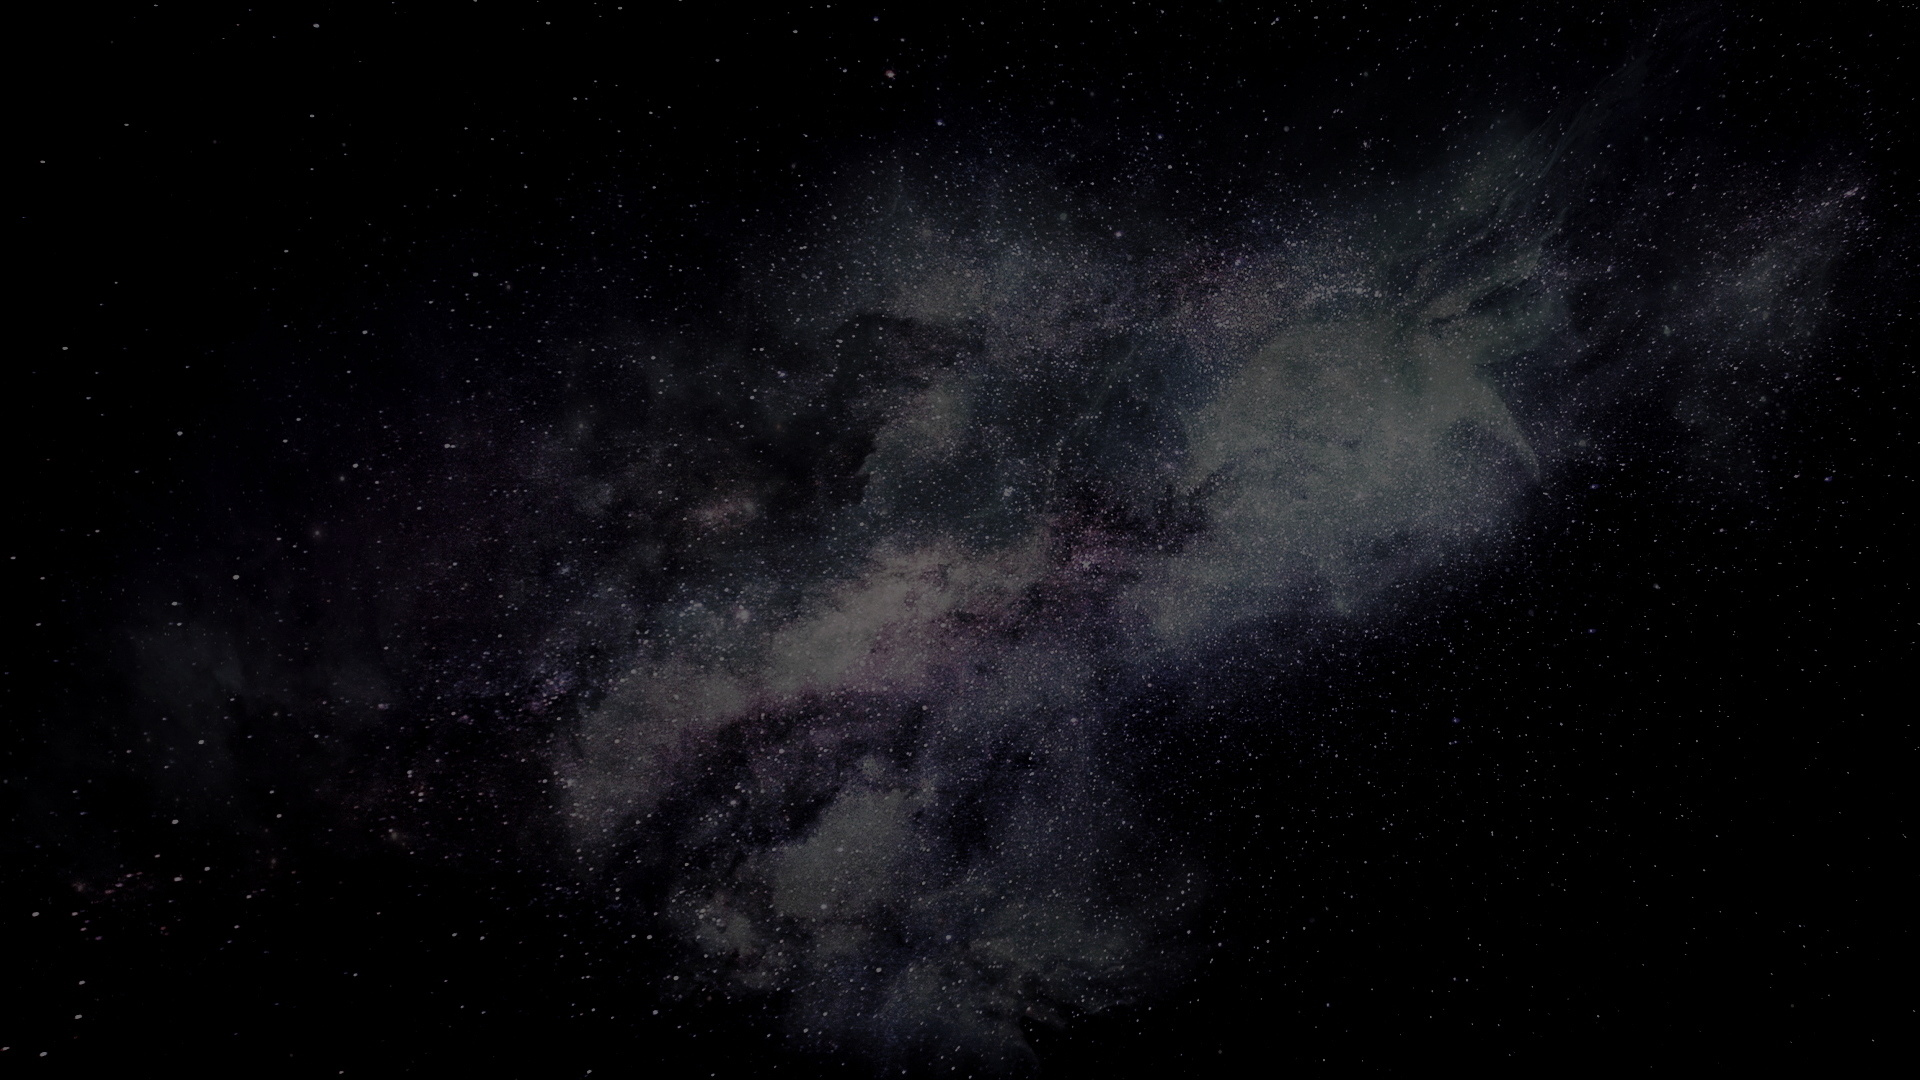
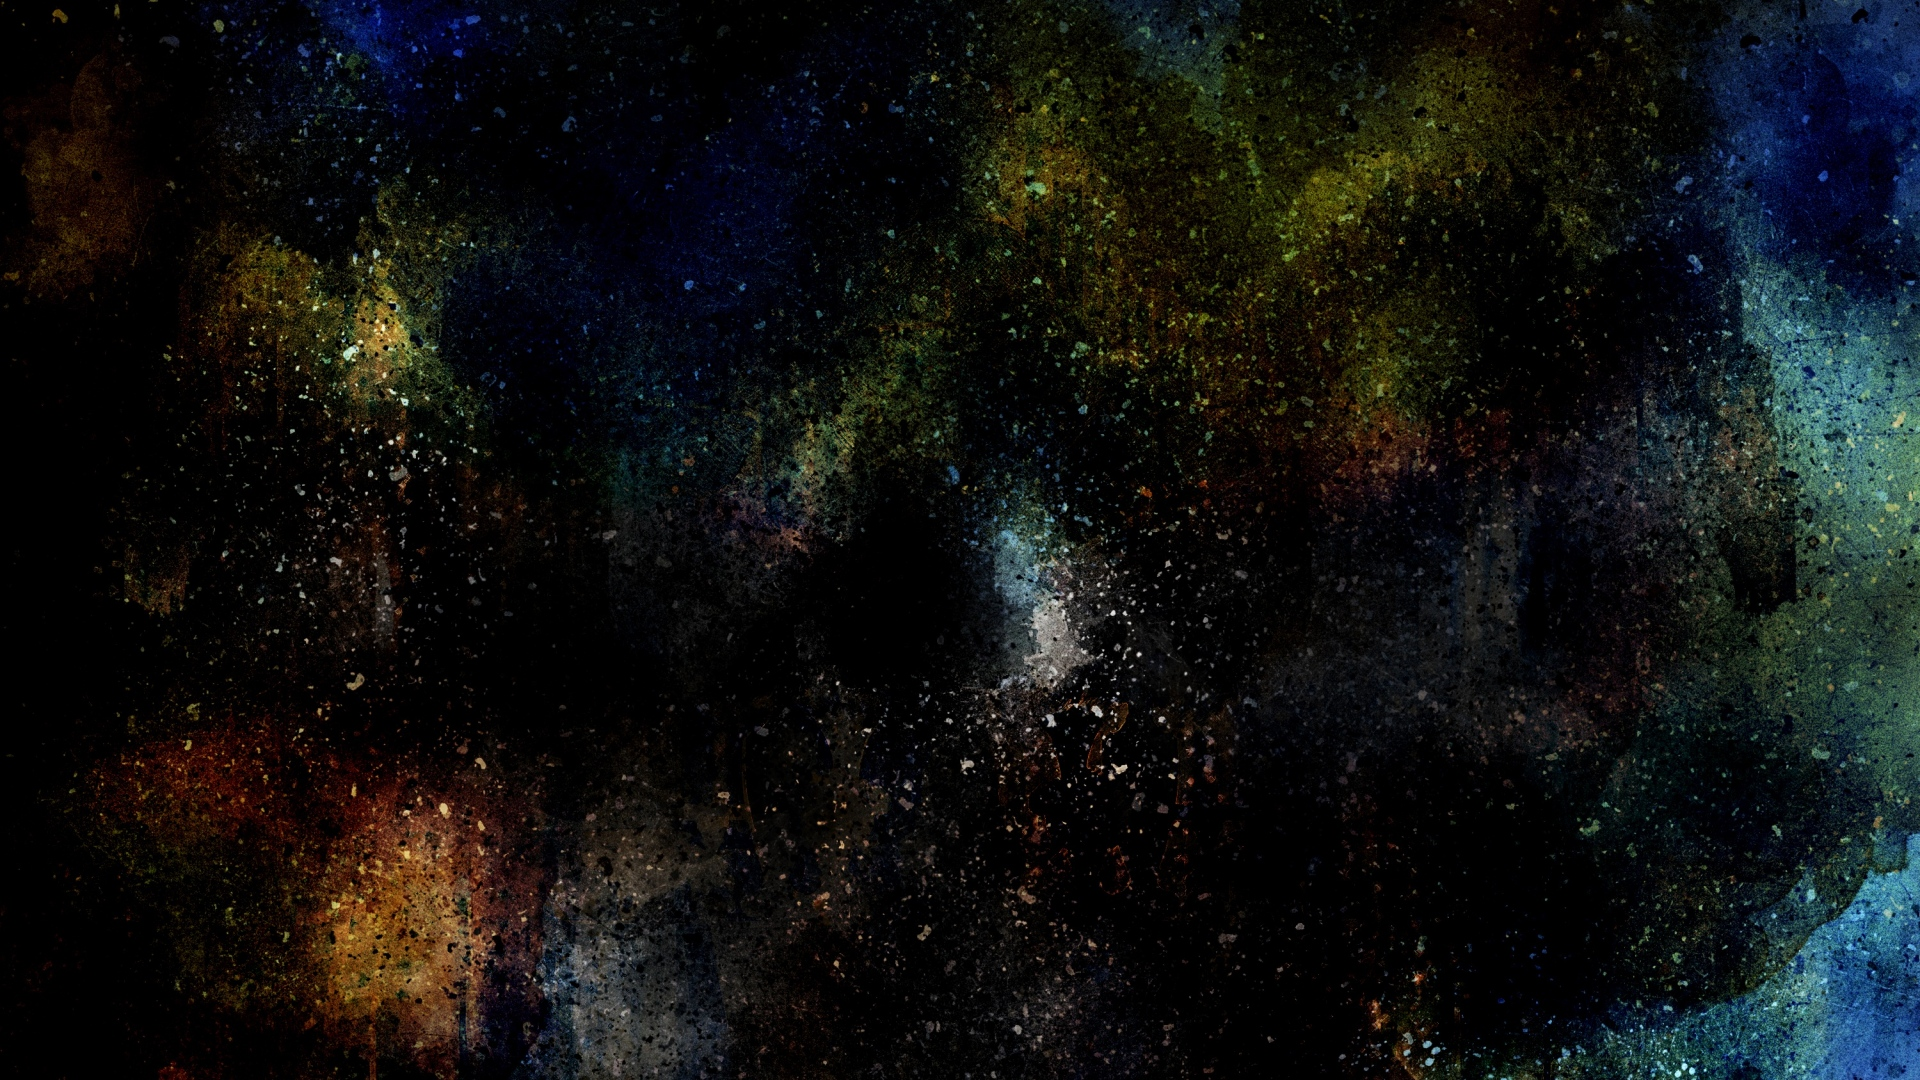
started work on lasers

diff --git a/src/projectile.js b/src/projectile.js
@@ -25,12 +25,39 @@ function Projectile(){
 	//solus.collisionSystem.addProjectile(this);
 }
 
-function Laser(){
+function Laser(angle, sweepIncrement){
 	this.length = 0;
-	// acceleration when first fired
+	if(angle){
+		this.angle = angle;
+	}
+	else
+		this.angle = 0; // angle from horizontal from the ship in radians
 	this.acceleration = .2;
-	this.update = function(){
-		this.velocity = vectorAdd()
+	this.endPoint = new Vector(); // position is the "origin" of the laser, end point is the "tip" of it, so to speak
+	if(sweepIncrement){
+		this.sweepIncrement = sweepIncrement;
+	}
+	else
+		this.sweepIncrement = 0;
+	this.sprite = solus.renderer.createLaser();
+	this.update = function(position, sweep){
+		if(position) // follow the ship
+			this.position = position;
+		this.velocity = vectorAdd(this.velocity, this.acceleration); // acceleration when first fired
+		this.acceleration = this.acceleration.scale(.05);
+		this.length = this.velocity.getLength();
+		if(this.acceleration.getLength() < .001 && this.acceleration.getLength() != 0)
+			this.acceleration.setLength(0);
+
+		// calculate new end point
+		if(sweep){
+			this.angle += this.sweepIncrement; // if sweepIncrement wasn't passed in in the constructor, this does nothing
+		}
+
+		this.endPoint = vectorAdd(this.position, getUnitVectorFromAngle(this.angle).setLength(this.length));
+
+		this.updateLaser(this.sprite,this.position, this.endPoint);
+
 	}
 }
 
@@ -44,7 +71,7 @@ function Bullet(position, direction){
 			return;
 		this.velocity = vectorAdd(this.acceleration, this.velocity);
 		this.acceleration = this.acceleration.scale(.05);
-		if(this.acceleration.getLength() < .001);
+		if(this.acceleration.getLength() < .001 this.acceleration.getLength() != 0)
 			this.acceleration.setLength(0);
 		this.position = vectorAdd(this.velocity, this.position);
 		solus.renderer.updateBullet(this.sprite, this.position);

diff --git a/src/renderer.js b/src/renderer.js
@@ -55,11 +55,11 @@ solus.renderer = (function(){
 
         // load the background
         PIXI.loader
-            .add("assets/environments/galaxy.jpg")
+            .add("assets/environments/galaxy2.jpg")
             .load(backgroundSetup);
 
         function backgroundSetup(){
-            var backgroundSprite = new PIXI.Sprite(pixiResources["assets/environments/galaxy.jpg"].texture);
+            var backgroundSprite = new PIXI.Sprite(pixiResources["assets/environments/galaxy2.jpg"].texture);
             background.addChild(backgroundSprite);
             background.zIndex = 0;
             displayStage.addChild(background);
@@ -93,17 +93,33 @@ solus.renderer = (function(){
         displayStage.addChild(circle);
         displayStage.updateLayersOrder();
         return circle;
-    }
+    };
 
     obj.updateBullet = function(bullet, position){
         bullet.position.set(position.x, position.y);
+    };
+
+    obj.createLaser = function(){
+        var line = new PIXI.Graphics();
+        line.zIndex = 1;
+        displayStage.addChild(line);
+        displayStage.updateLayersOrder();
+        return line;
+
+    };
+
+    obj.updateLaser = function(laser, origin, endpoint){
+        laser.clear();
+        laser.lineStyle = (4, 0xFFFFFF, 1);
+        laser.moveTo(origin);
+        laser.lineTo(endpoint);
     }
 
     obj.render = function(){
         if(pixiRenderer){
             pixiRenderer.render(displayStage);
         }
-    }
+    };
 
     return obj;
 

diff --git a/src/main.js b/src/main.js
@@ -52,6 +52,7 @@ solus.main =(function(){
 			activeCannon: 0, // front by default
 			laserPower: 100, // time in frames we can have lasers up for
 			bullets: [],
+			lasers:[],
 			update: function(){
 				// -------------------------------
 				//
@@ -181,6 +182,9 @@ solus.main =(function(){
 				if(this.laserPower < 100)
 					this.laserPower++;
 			},
+			resetLasers: function(){
+
+			},
 			takeDamage: function(damage){
 
 			},
@@ -189,6 +193,10 @@ solus.main =(function(){
 			}
 
 		};
+		// initialize lasers
+		obj.resetLasers();
+
+		// set up input callbacks and other things that have to wait for everything to be loaded
 		addOnLoadEvent(function(){
 				// set up things for shooting at things, because my bloodlust has yet to be slaked.
 
@@ -196,6 +204,7 @@ solus.main =(function(){
 				// onload event, it seems?
 				solus.input.setKeyDownCallback(KEYS.SPACE, obj.fireCannons.bind(obj));
 				solus.input.setKeyDownCallback(KEYS.SHIFT, obj.switchCannons.bind(obj));
+				solus.input.setKeyUpCallback(KEYS.ALT, obj.resetLasers.bind(obj));
 			}
 		);
 
